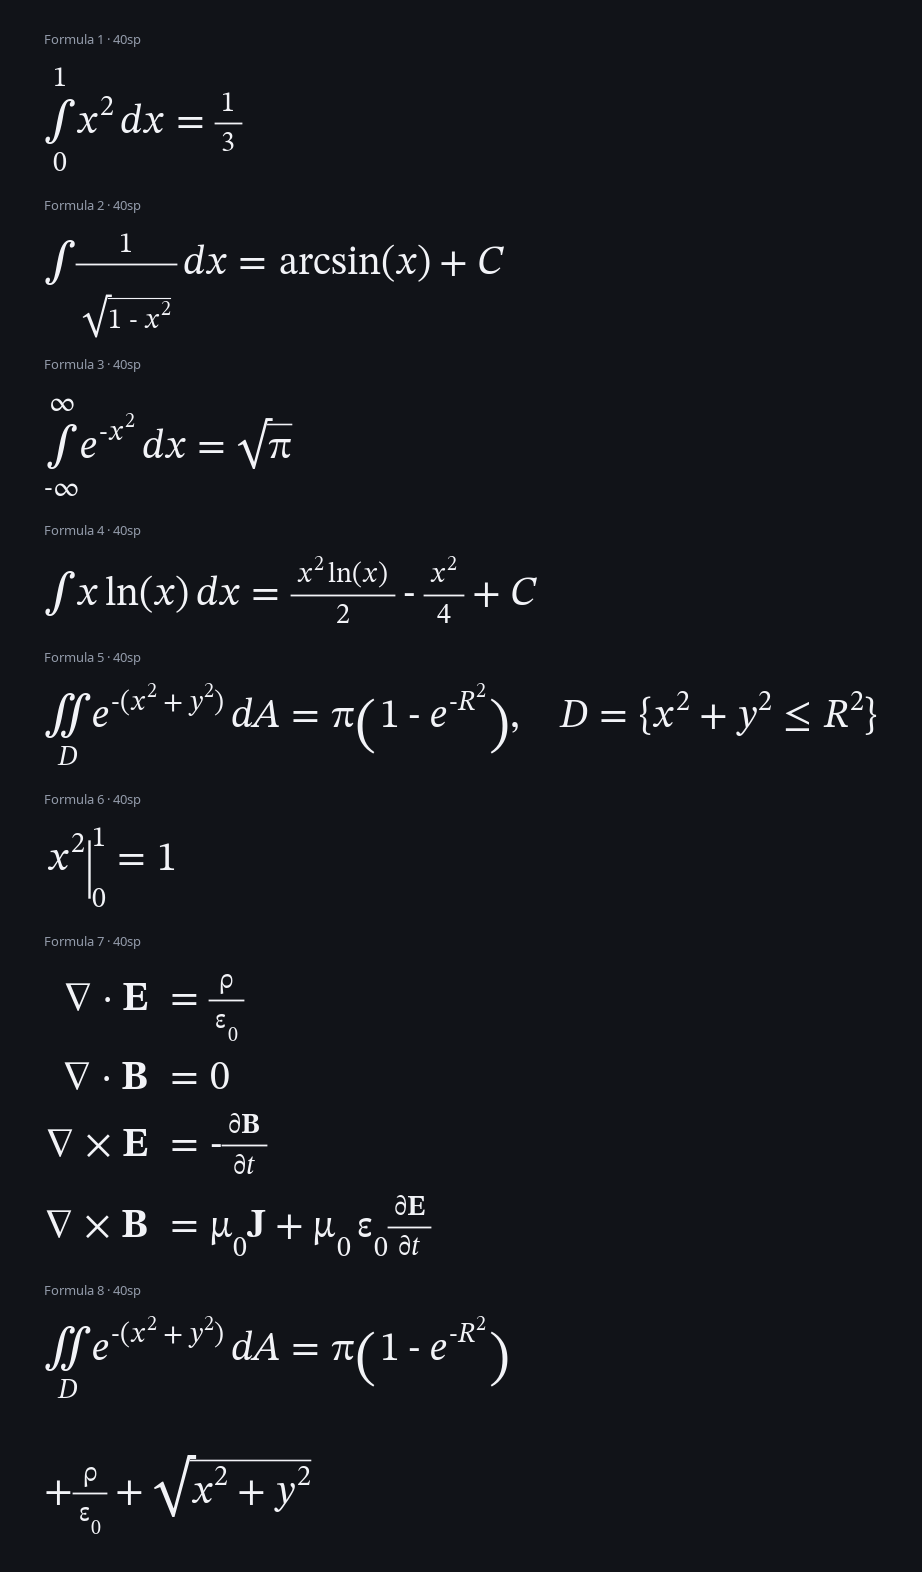
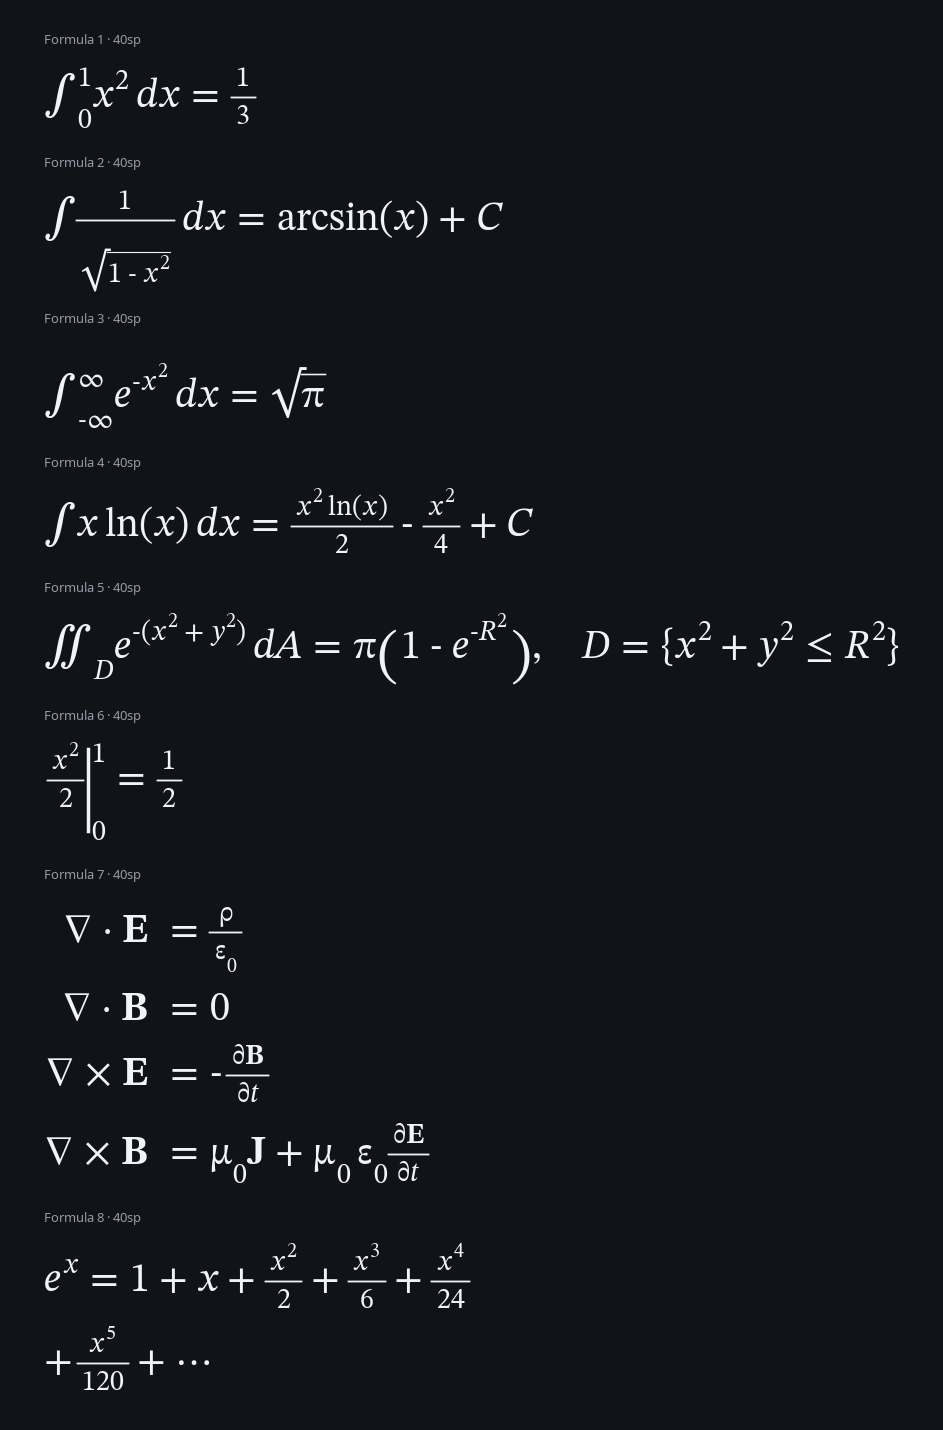
fix: polish Orcex 0.3.1 formula typography

diff --git a/orcex-layout/src/commonTest/kotlin/ru/wertik/orcex/layout/MathLayoutEngineTest.kt b/orcex-layout/src/commonTest/kotlin/ru/wertik/orcex/layout/MathLayoutEngineTest.kt
@@ -6,6 +6,7 @@ import kotlin.test.assertFailsWith
 import kotlin.test.assertTrue
 import kotlin.math.abs
 import ru.wertik.orcex.core.LatexParser
+import ru.wertik.orcex.core.MathNode
 
 class MathLayoutEngineTest {
     private val parser = LatexParser()
@@ -68,6 +69,28 @@ class MathLayoutEngineTest {
     }
 
     @Test
+    fun rendersTypographyRegressionsAtResponsiveSizes() {
+        val examples = listOf(
+            "\\left.\\frac{x^2}{2}\\right|_0^1 = \\frac{1}{2}" to false,
+            "\\begin{aligned}\\nabla \\cdot \\mathbf{E} &= \\frac{\\rho}{\\varepsilon_0} \\\\ \\nabla \\cdot \\mathbf{B} &= 0 \\\\ \\nabla \\times \\mathbf{E} &= -\\frac{\\partial \\mathbf{B}}{\\partial t} \\\\ \\nabla \\times \\mathbf{B} &= \\mu_0 \\mathbf{J} + \\mu_0\\,\\varepsilon_0 \\frac{\\partial \\mathbf{E}}{\\partial t}\\end{aligned}" to false,
+            "e^x = 1 + x + \\frac{x^2}{2} + \\frac{x^3}{6} + \\frac{x^4}{24} + \\frac{x^5}{120} + \\cdots" to true,
+        )
+        listOf(12f, 24f, 48f, 96f).forEach { fontSize ->
+            examples.forEach { (formula, constrained) ->
+                val node = parser.parse(formula)
+                val layout = if (constrained) {
+                    engine.layout(node, MathStyle(fontSize = fontSize), MathLayoutConstraints(fontSize * 12.5f))
+                } else {
+                    engine.layout(node, MathStyle(fontSize = fontSize))
+                }
+                assertTrue(layout.width.isFinite() && layout.height.isFinite())
+                assertTrue(layout.commands.isNotEmpty())
+                if (constrained) assertTrue(layout.height > fontSize)
+            }
+        }
+    }
+
+    @Test
     fun treatsPrefixMinusAsUnaryAndEnlargesDisplayIntegrals() {
         val unary = engine.layout(parser.parse("-x"), MathStyle(fontSize = 40f))
         val binary = engine.layout(parser.parse("x-x"), MathStyle(fontSize = 40f))
@@ -81,16 +104,19 @@ class MathLayoutEngineTest {
     }
 
     @Test
-    fun centersDisplayLimitsAboveAndBelowLargeOperators() {
+    fun stacksSumLimitsButKeepsIntegralLimitsBesideTheOperator() {
         val layout = engine.layout(parser.parse("\\int_0^1 x + \\sum_{i=1}^{n} i"), MathStyle(fontSize = 40f))
         val text = layout.commands.filterIsInstance<DrawCommand.Text>()
         val integral = text.first { it.value == "∫" }
-        val lower = text.first { it.value == "0" }
-        val upper = text.first { it.value == "1" }
-        assertTrue(lower.x < integral.x + integral.style.fontSize)
-        assertTrue(upper.x < integral.x + integral.style.fontSize)
-        assertTrue(upper.baseline < integral.baseline)
-        assertTrue(lower.baseline > integral.baseline)
+        val integralLower = text.first { it.value == "0" }
+        val integralUpper = text.first { it.value == "1" }
+        val sum = text.first { it.value == "∑" }
+        val sumLower = text.first { it.value == "𝑖" }
+        val sumUpper = text.first { it.value == "𝑛" }
+        assertTrue(integralLower.x > integral.x)
+        assertTrue(integralUpper.x > integral.x)
+        assertTrue(sumLower.x < sum.x + sum.style.fontSize)
+        assertTrue(sumUpper.x < sum.x + sum.style.fontSize)
     }
 
     @Test
@@ -154,6 +180,7 @@ class MathLayoutEngineTest {
         assertEquals(1.7f, MathSpacing.between(ordinary, punctuation, ordinary, 10f), 0.001f)
         assertEquals(1.7f, MathSpacing.between(ordinary, operator, ordinary, 10f), 0.001f)
         assertEquals(1.7f, MathSpacing.between(ordinary, ordinary, operator, 10f), 0.001f)
+        assertEquals(1f, MathSpacing.between(null, binary, MathNode.Fraction(ordinary, ordinary), 10f), 0.001f)
     }
 
     @Test
@@ -223,10 +250,12 @@ class MathLayoutEngineTest {
     fun spacesRelationsAndBinariesAroundCompositeAtoms() {
         val relation = engine.layout(parser.parse("x=\\frac{1}{2}"), MathStyle(fontSize = 40f))
         val binary = engine.layout(parser.parse("\\sqrt{x}+y"), MathStyle(fontSize = 40f))
+        val faraday = engine.layout(parser.parse("-\\frac{\\partial B}{\\partial t}"), MathStyle(fontSize = 40f))
         val relationText = relation.commands.filterIsInstance<DrawCommand.Text>()
         val binaryText = binary.commands.filterIsInstance<DrawCommand.Text>()
         assertTrue(relationText.first { it.value == "=" }.x + 40f * 0.48f + 40f * 0.28f <= relation.commands.filterIsInstance<DrawCommand.Line>().first().startX)
         assertTrue(binaryText.first { it.value == "+" }.x > binaryText.first { it.value == "𝑥" }.x)
+        assertTrue(faraday.commands.filterIsInstance<DrawCommand.Line>().first().startX > faraday.commands.filterIsInstance<DrawCommand.Text>().first { it.value == "-" }.x + 40f * 0.48f)
     }
 
     private object FixedMetrics : MathFontMetrics {

diff --git a/orcex-layout/src/jvmTest/kotlin/ru/wertik/orcex/layout/FormulaPreviewTest.kt b/orcex-layout/src/jvmTest/kotlin/ru/wertik/orcex/layout/FormulaPreviewTest.kt
@@ -28,9 +28,9 @@ class FormulaPreviewTest {
             "\\int_{-\\infty}^{\\infty} e^{-x^2} \\, dx = \\sqrt{\\pi}" to Float.POSITIVE_INFINITY,
             "\\int x \\ln(x) \\, dx = \\frac{x^2 \\ln(x)}{2} - \\frac{x^2}{4} + C" to Float.POSITIVE_INFINITY,
             "\\iint_D e^{-(x^2+y^2)} \\, dA = \\pi \\left(1 - e^{-R^2}\\right), \\quad D = \\{x^2+y^2 \\leq R^2\\}" to Float.POSITIVE_INFINITY,
-            "\\left.x^2\\right|_0^1 = 1" to Float.POSITIVE_INFINITY,
+            "\\left.\\frac{x^2}{2}\\right|_0^1 = \\frac{1}{2}" to Float.POSITIVE_INFINITY,
             "\\begin{aligned}\\nabla \\cdot \\mathbf{E} &= \\frac{\\rho}{\\varepsilon_0} \\\\ \\nabla \\cdot \\mathbf{B} &= 0 \\\\ \\nabla \\times \\mathbf{E} &= -\\frac{\\partial \\mathbf{B}}{\\partial t} \\\\ \\nabla \\times \\mathbf{B} &= \\mu_0 \\mathbf{J} + \\mu_0\\,\\varepsilon_0 \\frac{\\partial \\mathbf{E}}{\\partial t}\\end{aligned}" to Float.POSITIVE_INFINITY,
-            "\\iint_D e^{-(x^2+y^2)} \\, dA = \\pi \\left(1 - e^{-R^2}\\right) + \\frac{\\rho}{\\varepsilon_0} + \\sqrt{x^2+y^2}" to 520f,
+            "e^x = 1 + x + \\frac{x^2}{2} + \\frac{x^3}{6} + \\frac{x^4}{24} + \\frac{x^5}{120} + \\cdots" to 500f,
         )
         val layouts = formulas.map { (formula, maxWidth) ->
             if (maxWidth.isFinite()) engine.layout(parser.parse(formula), MathStyle(fontSize = 40f), MathLayoutConstraints(maxWidth))

diff --git a/orcex-layout/src/commonMain/kotlin/ru/wertik/orcex/layout/MathSpacing.kt b/orcex-layout/src/commonMain/kotlin/ru/wertik/orcex/layout/MathSpacing.kt
@@ -5,6 +5,7 @@ import ru.wertik.orcex.core.SymbolKind
 
 internal object MathSpacing {
     fun between(beforeLeft: MathNode?, left: MathNode?, right: MathNode?, em: Float): Float {
+        if (isUnaryBinary(left, beforeLeft) && isComposite(right)) return em * 0.1f
         val leftKind = effectiveKind(left, beforeLeft) ?: return 0f
         val rightKind = effectiveKind(right, left) ?: return 0f
         return when {
@@ -16,6 +17,12 @@ internal object MathSpacing {
             else -> 0f
         }
     }
+
+    private fun isUnaryBinary(node: MathNode?, previous: MathNode?): Boolean =
+        node is MathNode.Symbol && node.kind == SymbolKind.BINARY &&
+            (previous == null || kind(previous) in setOf(SymbolKind.OPEN, SymbolKind.BINARY, SymbolKind.RELATION))
+
+    private fun isComposite(node: MathNode?): Boolean = node is MathNode.Fraction || node is MathNode.Radical || node is MathNode.Delimited
 
     private fun effectiveKind(node: MathNode?, previous: MathNode?): SymbolKind? {
         val kind = kind(node) ?: return null

diff --git a/orcex-layout/src/commonMain/kotlin/ru/wertik/orcex/layout/ScriptLayouter.kt b/orcex-layout/src/commonMain/kotlin/ru/wertik/orcex/layout/ScriptLayouter.kt
@@ -11,7 +11,7 @@ internal class ScriptLayouter(private val scope: LayoutScope) {
         val superscript = node.superscript?.let { scope.box(it, scriptStyle) }
         val subscript = node.subscript?.let { scope.box(it, scriptStyle) }
         val baseNode = node.base as? MathNode.Symbol
-        if (baseNode?.kind == SymbolKind.LARGE_OPERATOR && style.scriptLevel == 0) {
+        if (baseNode?.kind == SymbolKind.LARGE_OPERATOR && baseNode.value in setOf("∑", "∏") && style.scriptLevel == 0) {
             return limits(base, superscript, subscript, style)
         }
         val x = base.width + style.fontSize * 0.04f

diff --git a/orcex-layout/src/commonMain/kotlin/ru/wertik/orcex/layout/FractionRadicalLayouter.kt b/orcex-layout/src/commonMain/kotlin/ru/wertik/orcex/layout/FractionRadicalLayouter.kt
@@ -8,8 +8,8 @@ internal class FractionRadicalLayouter(private val scope: LayoutScope) {
         val nested = style.script()
         val numerator = scope.box(node.numerator, nested)
         val denominator = scope.box(node.denominator, nested)
-        val padding = style.fontSize * 0.14f
-        val gap = style.fontSize * 0.12f
+        val padding = style.fontSize * 0.12f
+        val gap = style.fontSize * 0.09f
         val thickness = max(1f, style.fontSize * 0.045f)
         val axisY = -style.fontSize * 0.24f
         val width = max(numerator.width, denominator.width) + padding * 2f

diff --git a/orcex-layout/src/commonMain/kotlin/ru/wertik/orcex/layout/MathLayoutEngine.kt b/orcex-layout/src/commonMain/kotlin/ru/wertik/orcex/layout/MathLayoutEngine.kt
@@ -99,7 +99,7 @@ public class MathLayoutEngine(private val metrics: MathFontMetrics) {
                 end++
             }
         }
-        val gap = style.fontSize * 0.38f
+        val gap = style.fontSize * 0.24f
         val commands = mutableListOf<DrawCommand>()
         var baseline = 0f
         lines.forEachIndexed { index, line ->

diff --git a/README.md b/README.md
@@ -30,13 +30,13 @@ The parser and layout do not require Android or a bundled font. Apps that alread
 repositories { mavenCentral() }
 
 commonMain.dependencies {
-    implementation("ru.wertik.orcex:orcex-core:0.3.0")
-    implementation("ru.wertik.orcex:orcex-layout:0.3.0")
+    implementation("ru.wertik.orcex:orcex-core:0.3.1")
+    implementation("ru.wertik.orcex:orcex-layout:0.3.1")
 }
 
 androidMain.dependencies {
-    implementation("ru.wertik.orcex:orcex-render-android:0.3.0")
-    implementation("ru.wertik.orcex:orcex-font-stix2-android:0.3.0")
+    implementation("ru.wertik.orcex:orcex-render-android:0.3.1")
+    implementation("ru.wertik.orcex:orcex-font-stix2-android:0.3.1")
 }
 ```
 
@@ -65,7 +65,7 @@ renderer.draw(canvas, layout, x = 24f, y = 24f)
 ### Automatic line breaking
 
 ```kotlin
-val expression = "\\iint_D e^{-(x^2+y^2)} \\, dA = \\pi \\left(1 - e^{-R^2}\\right) + \\frac{\\rho}{\\varepsilon_0}"
+val expression = "e^x = 1 + x + \\frac{x^2}{2} + \\frac{x^3}{6} + \\frac{x^4}{24} + \\frac{x^5}{120} + \\cdots"
 val layout = engine.layout(
     expression,
     fontSize = 40f,

diff --git a/CHANGELOG.md b/CHANGELOG.md
@@ -2,6 +2,12 @@
 
 All notable changes to Orcex are documented here.
 
+## 0.3.1 - 2026-05-26
+
+- Restore side-positioned limits for integral operators while retaining stacked limits for summations and products.
+- Separate unary minus from tall fractions so Faraday's law remains unmistakable in rendered Maxwell previews.
+- Replace the wrapping gallery sample with a meaningful Taylor-series expression and tighten multiline vertical rhythm.
+
 ## 0.3.0 - 2026-05-26
 
 - Add a checked-in rendered formula gallery and copy-ready Maxwell usage example to the README.
